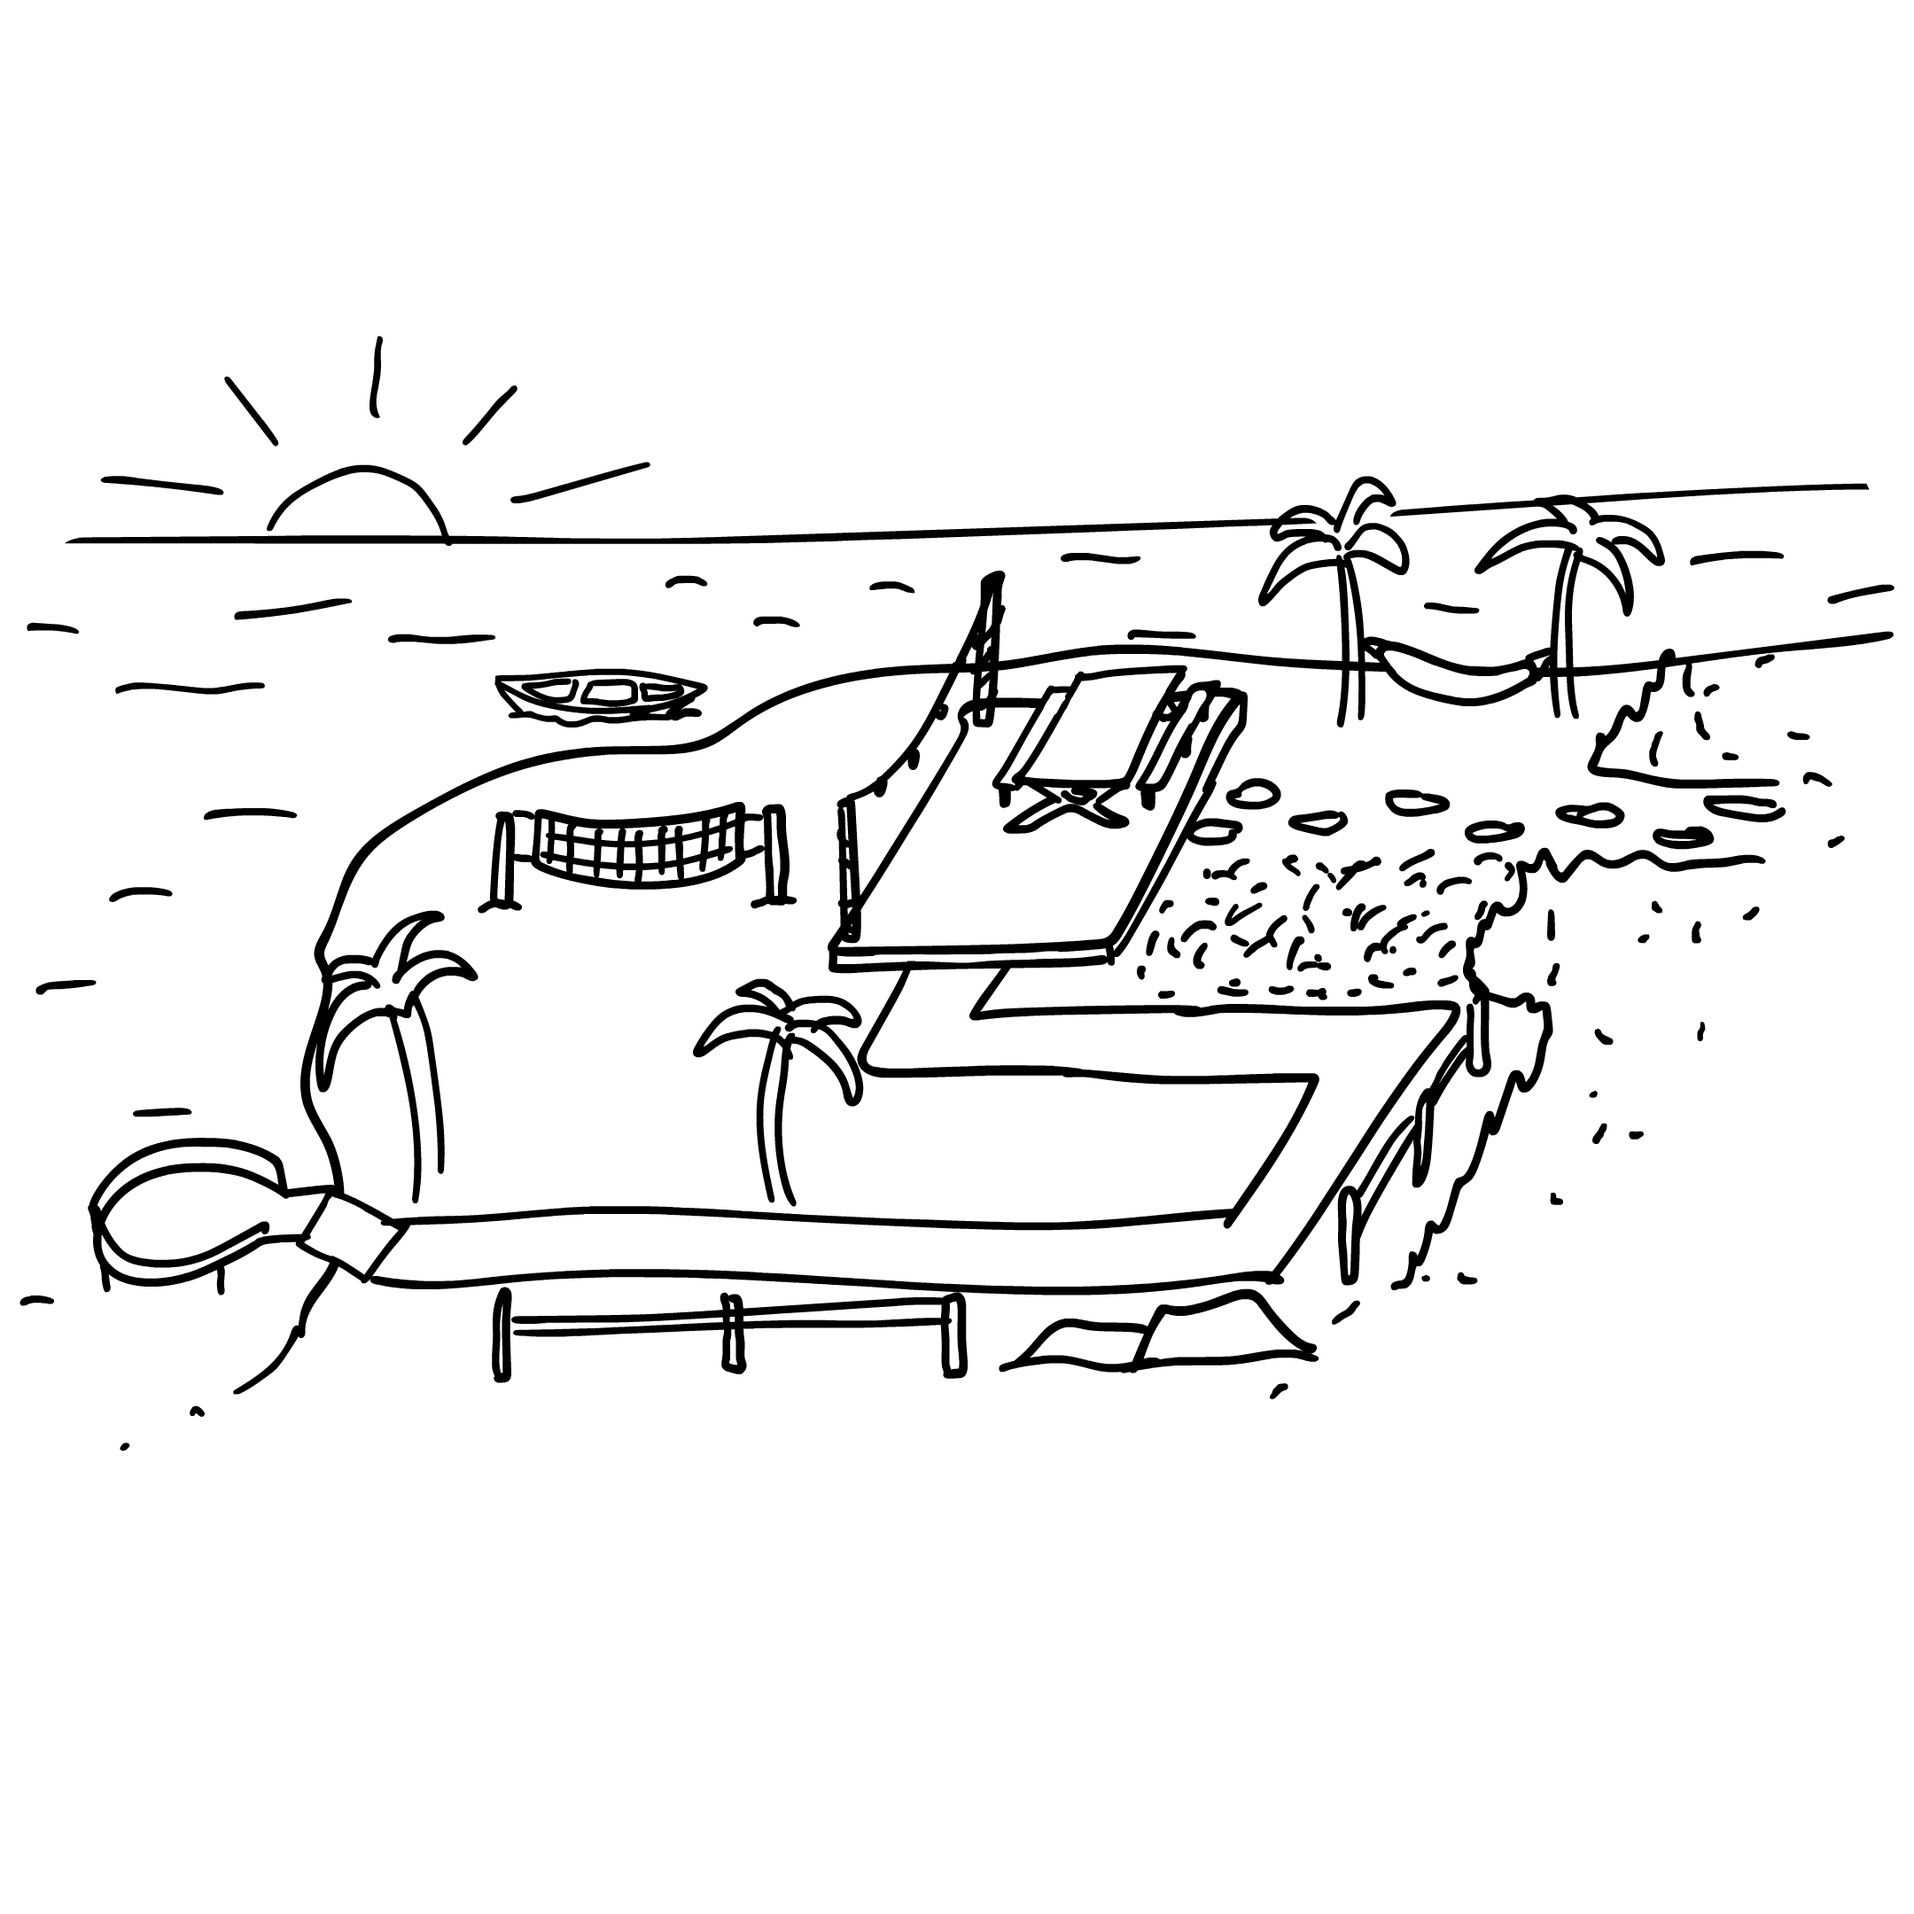
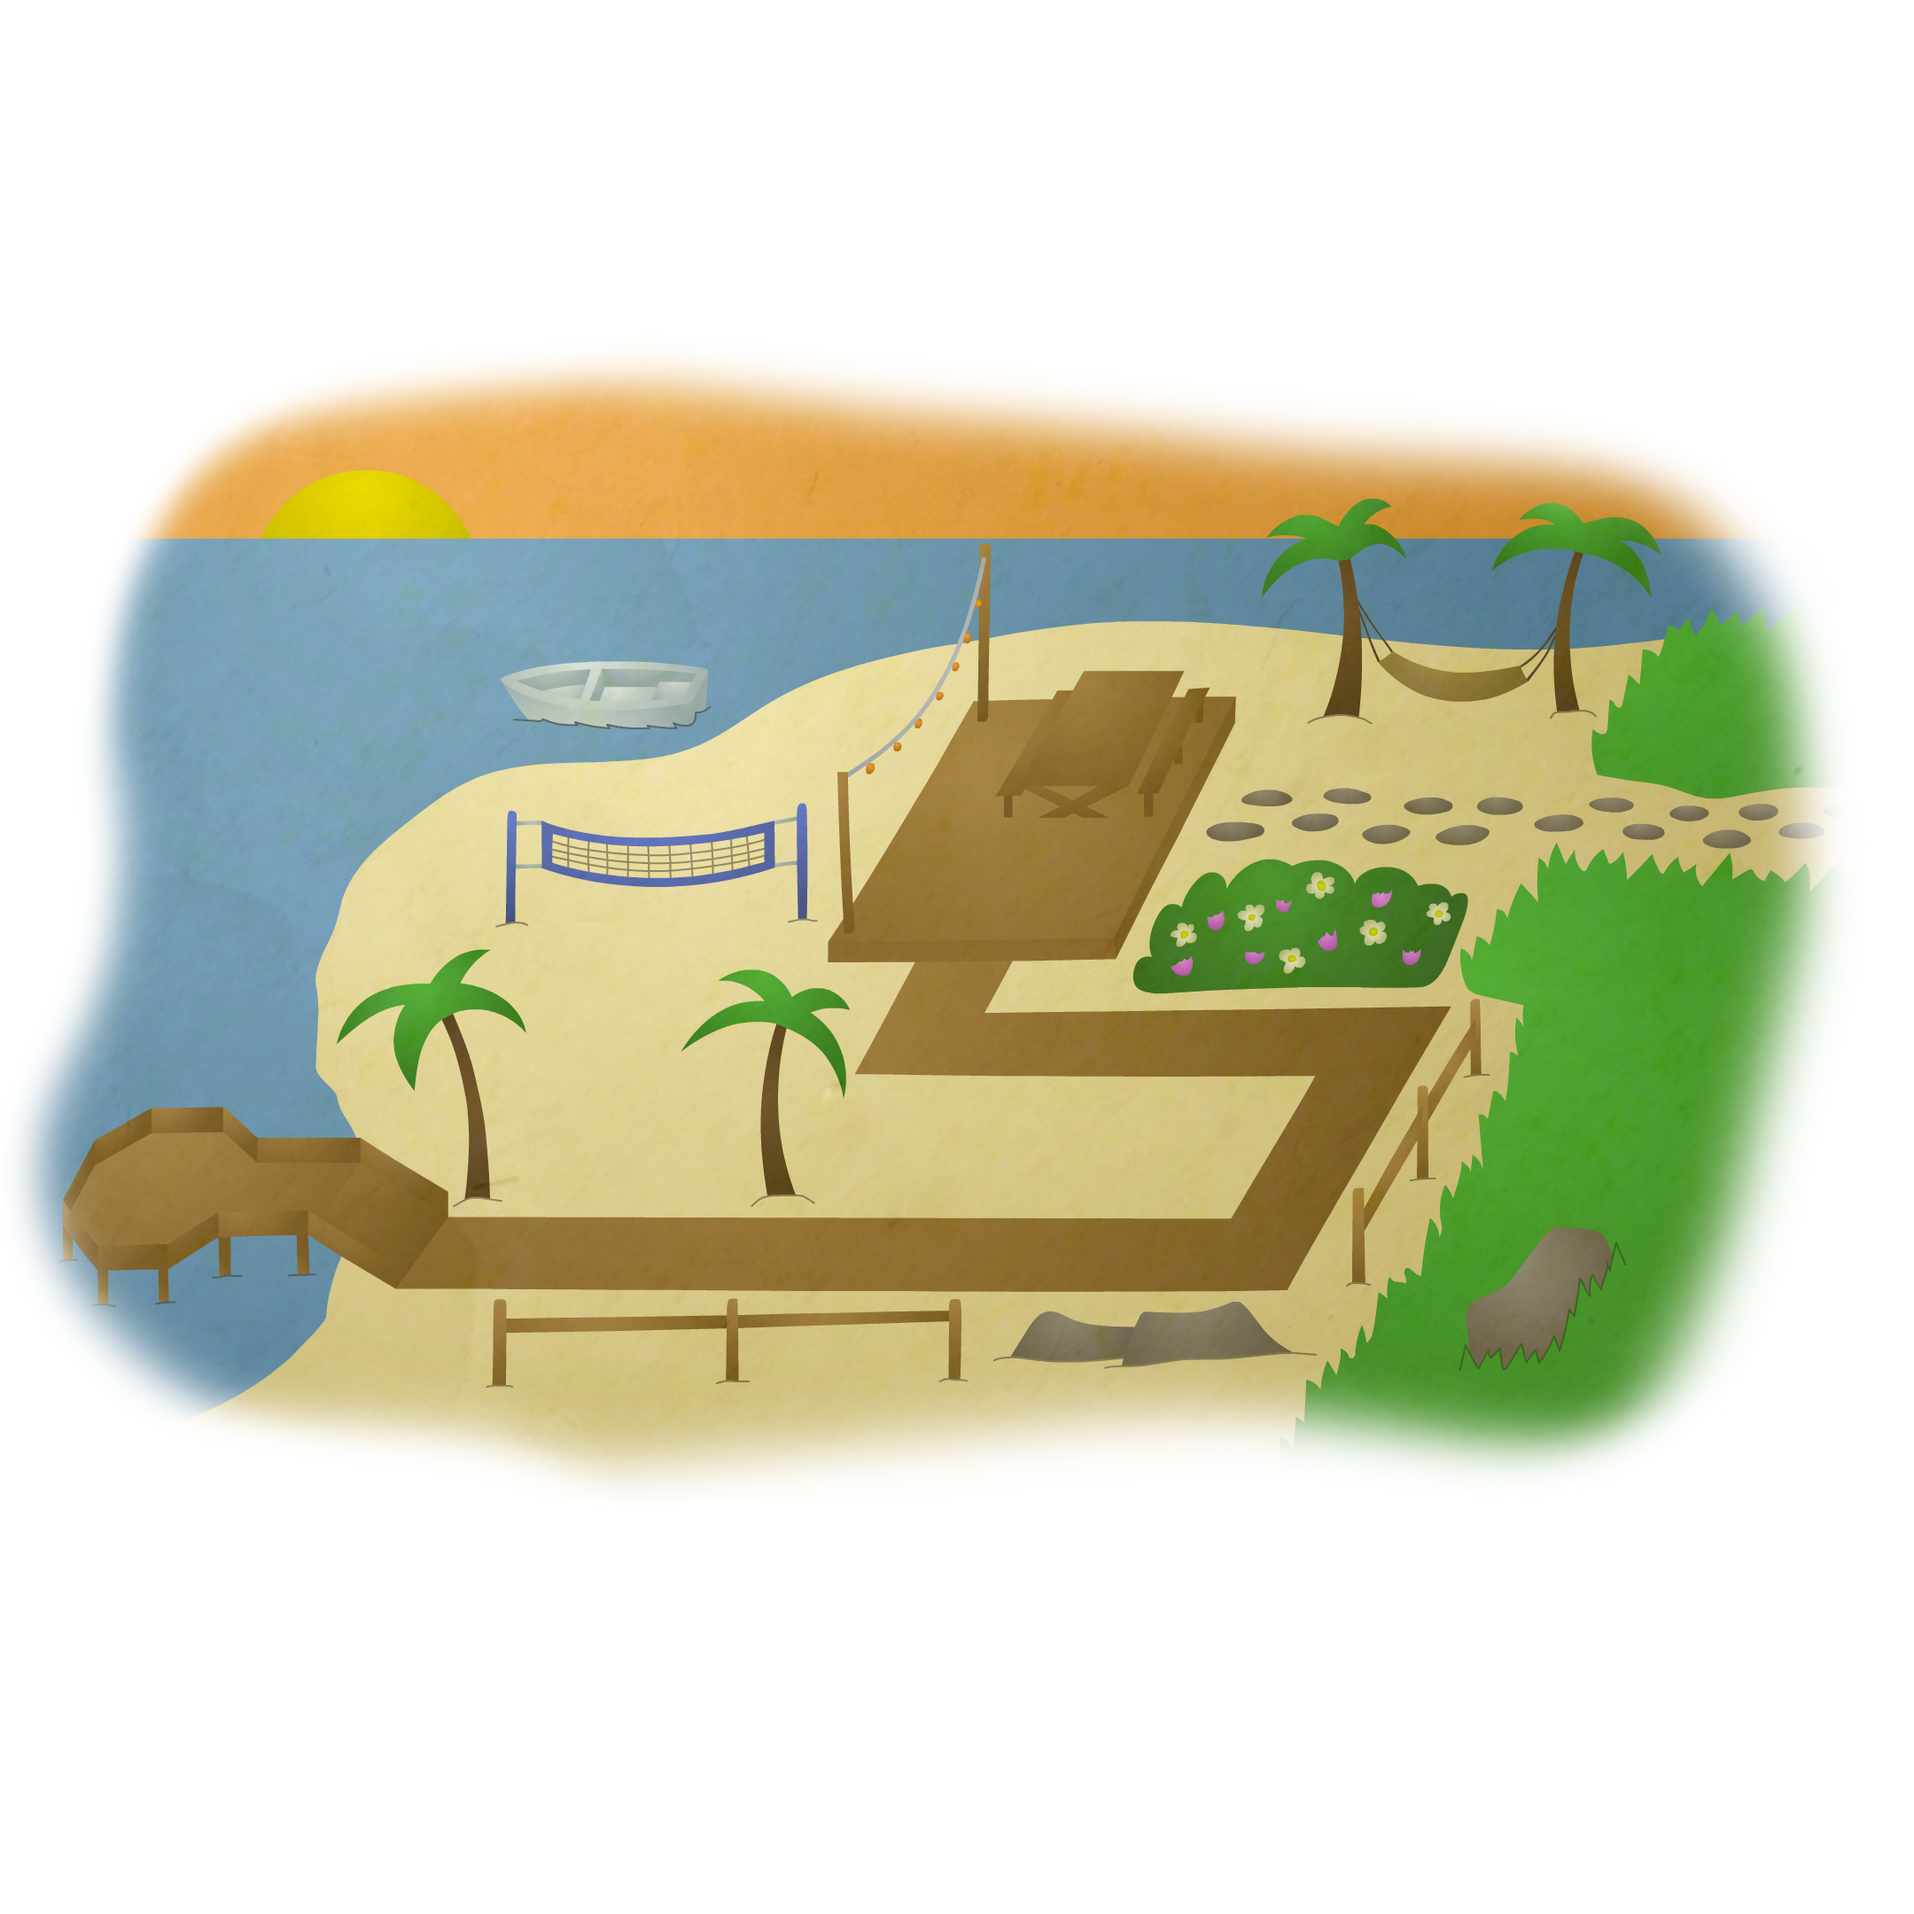
Add real version of Palm Tree Paradise - West art

diff --git a/frontend/src/components/Island.jsx b/frontend/src/components/Island.jsx
@@ -66,7 +66,7 @@ const Island = (props) => {
           ) : null}
         </div>
       }
-      {(focusRegion?.image || focusDivision?.image) && <img className="islandImage" src={focusRegion?.image || focusDivision?.image} draggable="false" />}
+      {(focusRegion?.image || focusDivision?.image) && <img key={`${focusDivision.name}-image`} className="islandImage" src={focusRegion?.image || focusDivision?.image} draggable="false" />}
     </div>
   );
 }

diff --git a/frontend/src/stylesheets/Island.css b/frontend/src/stylesheets/Island.css
@@ -1,5 +1,4 @@
 .island {
-  background-color: peru;
   height: 50vw;
   width: 75vw;
   position: relative;
@@ -79,7 +78,7 @@
   width: 95%;
   height: 100%;
   object-fit: cover;
-  opacity: 0.2;
   pointer-events: none;
   user-select: none;
+  animation: glideIn 0.3s ease-out;
 }
